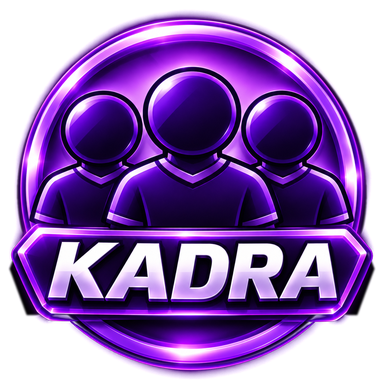
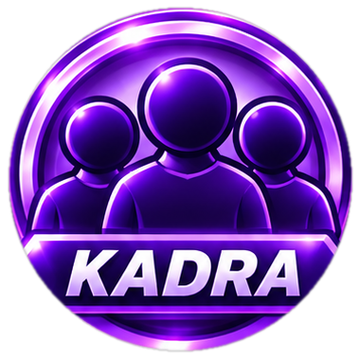
Pulpit: 9 przycisków z projektu (Kadra, Taktyka, Trening, Przeciwnicy, Rozgrywki, Towarzyskie, Kadra U-21, Federacja, Ranking)
Claude-Session: https://claude.ai/code/session_01GYEpxV9pDbMoKRCxmRuv9s

diff --git a/www/js/ui/orbs.js b/www/js/ui/orbs.js
@@ -100,11 +100,14 @@ const G = {
     + `<path ${B} d="M38 26 h10 v-7 l12 13 l-12 13 v-7 h-10 Z"/><rect ${H} x="15" y="11" width="6" height="18" rx="3"/>`,
 };
 
+// przyciski zaprojektowane jako grafiki (z napisem)
+const IMG = { squad: 'kadra', tactics: 'taktyka', training: 'trening', opponents: 'przeciwnicy', comps: 'rozgrywki', friendlies: 'towarzyskie', u21: 'u21', federation: 'federacja', ranking: 'ranking' };
+
 /** Okrągły przycisk menu. ic – nazwa ikony, label – napis na plakietce. „Kadra” to grafika z projektu. */
 export function orb(ic, label, attrs, badge = 0) {
   const b = badge ? `<span class="badge">${badge}</span>` : '';
-  if (ic === 'squad') {
-    return `<button class="orb orb-img" ${attrs} aria-label="${label}"><img src="img/kadra.png" alt="" draggable="false">${b}</button>`;
+  if (IMG[ic]) {
+    return `<button class="orb orb-img" ${attrs} aria-label="${label}"><img src="img/${IMG[ic]}.png" alt="" draggable="false">${b}</button>`;
   }
   const g = G[ic] ? G[ic]() : '';
   const hl = g.match(/<[^>]*class="oh"[^>]*\/>/g) || [];

diff --git a/www/css/app.css b/www/css/app.css
@@ -533,8 +533,8 @@ main.view.match-view { padding-top: 8px; }
 .orb-ic .o-fill .ob { fill: url(#ogBody); stroke: url(#ogEdge); stroke-width: 2; stroke-linejoin: round; }
 .orb-ic .oh { fill: url(#ogShine); stroke: none; }
 .orb-img { overflow: visible; }
-.orb-img img { position: absolute; inset: -11%; width: 122%; height: 122%; object-fit: contain; pointer-events: none; user-select: none;
-  filter: drop-shadow(0 0 10px rgba(170, 90, 255, 0.55)); animation: orbGlow 3.2s ease-in-out infinite; }
+.orb-img img { position: absolute; left: -4%; top: -3%; width: 108%; height: 108%; object-fit: contain; pointer-events: none; user-select: none;
+  filter: drop-shadow(0 0 12px rgba(185, 90, 255, 0.75)); animation: orbGlow 3.2s ease-in-out infinite; }
 /* plakietka z nazwą */
 .orb-label {
   position: absolute; left: -4%; right: -4%; top: 60%; height: 26%; z-index: 2;

diff --git a/www/sw.js b/www/sw.js
@@ -1,5 +1,5 @@
 // Service worker: działanie offline (stale-while-revalidate).
-const CACHE = 'selekcjoner-v4';
+const CACHE = 'selekcjoner-v5';
 const SHELL = ['./', 'index.html', 'css/app.css', 'js/main.js', 'manifest.webmanifest', 'icons/icon-192.png'];
 
 self.addEventListener('install', (e) => {
